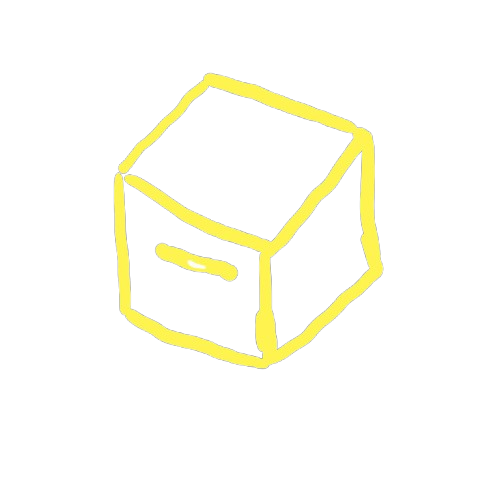
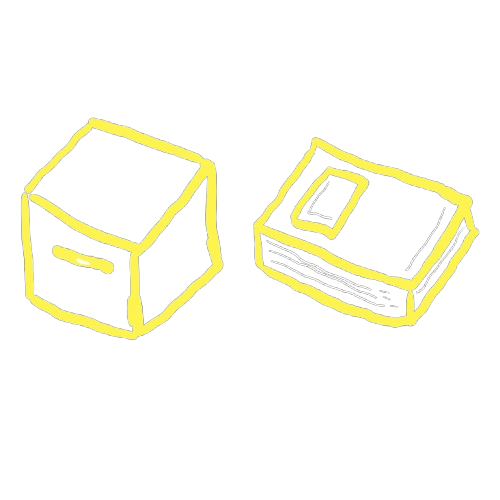
changes

Changed region(s): [[0.03, 0.15, 0.96, 0.75]]

diff --git a/Style_lp.css b/Style_lp.css
@@ -4,27 +4,35 @@
     padding: 0;
     box-sizing: border-box;
     font-family: Arial, Helvetica, sans-serif;
-    background-color: rgb(28, 28, 28);   
 }
 body{
     font-family:Helvetica;
+    background-color: rgb(28, 28, 28);  
     }
 .Hero{
-    height: 100vh;
+    min-height: 100vh;
     font-size: 80px;
-    color: rgb(255, 255, 255);
     justify-content: center;
     align-items: center;
-    position: relative;
-    z-index: 2;
     display: flex;
+    flex-wrap: wrap;
+    position: relative ;
+    overflow: hidden;
+    background:
+        linear-gradient(rgba(28,28,28,0.100), rgba(28,28,28,0.95)),
+        url("Pic/icon1.png");
+    background-size: cover, 100px;
+    background-repeat: no-repeat, repeat;
+}
+.Hero h1{
+    color: rgb(255, 255, 255);
     text-shadow: 4px 8px 10px rgba(255, 244, 79, 0.15);
-    }
+    position: relative ;
+}
 .Hero h1 span{
     color: #fff44f;
     text-shadow: 4px 8px 10px rgba(255, 255, 255, 0.15);
     position: relative;
-    z-index: 2;
     }
 .bar{
     display: flex;
@@ -38,33 +46,47 @@ body{
     margin-left: 10px;
 }
 .Card{
-    height: 75vh;
+    min-height: 75vh;
     display: flex;
+    flex-wrap: wrap;
+    align-items: stretch;
     justify-content: center;
     gap: 50px;
     background-color:white;
     }
 .S1{
     margin-top:80px;
+    margin-bottom: 80px;
     text-align: center;
-    justify-content: center;
+    justify-content: flex-start;
+    flex-direction: column;
     font-size: 18px;
     background-color: white;
     width: 280px;
-    height: 280px;
+    min-height: 280px;
     border-radius: 20px;
     box-shadow:0 10px 40px rgb(0, 0, 0,0.15);
     padding: 20px;
-    flex-wrap: wrap;
-    max-width: 1200px;
     }
 .S1 h3{
+    min-height: 60px;
     background-color: white;
     color: #000000;
 }
+.S1 img{
+    width: 190px;
+    object-fit: contain;
+}
+.S1 P{
+    font-size: 20px;
+    font: bold;
+    text-align: center;
+}
 .Lpcp{
-    height: 100px;
+    min-height: 100px;
     background-color: rgb(28, 28, 28);
+    display: flex;
+    flex-wrap: wrap;
 }
 .Lpcp p{
     padding-top: 10px;
@@ -74,6 +96,7 @@ body{
 }
 .Lpcpcont{
     display:flex;
+    flex-wrap: wrap;
     justify-content: center;
 }
 .Lpcpcont p{
@@ -81,7 +104,4 @@ body{
     color: #ffffff;
     justify-content: center;
 }
-.bg-icon1{
-    position: absolute;
 
-}

diff --git a/LandingP.html b/LandingP.html
@@ -15,21 +15,28 @@
         </nav>
             <section class="Hero">
                 <h1><span>AU</span>chive</h1>
-                <img src="Pic/icon1.png" class="bg-icon1">
 
             </section>
             <section class="Card">
                 <div class="S1">
                     <h3>Make your own story</h3>
+                    <img src="Pic/icon4.png">
+                    <p>explore lot of genre with your ideas</p>
                 </div>
                 <div class="S1">
                     <h3>Add bubble chat</h3>
+                    <img src="Pic/icon6.png">
+                    <p>bubble chat to make your story more realistic</p>
                 </div>
                  <div class="S1">
                     <h3>Share your story </h3>
+                    <img src="Pic/icon5.png">
+                    <p>Public story sharing so you can share happiness</p>
                 </div>
                  <div class="S1">
                     <h3>Customize your bubble chat</h3>
+                    <img src="Pic/icon3.png">
+                    <p>you can custom your own bubble chat style</p>
                 </div>
             </section>
             <section class="Lpcp">
